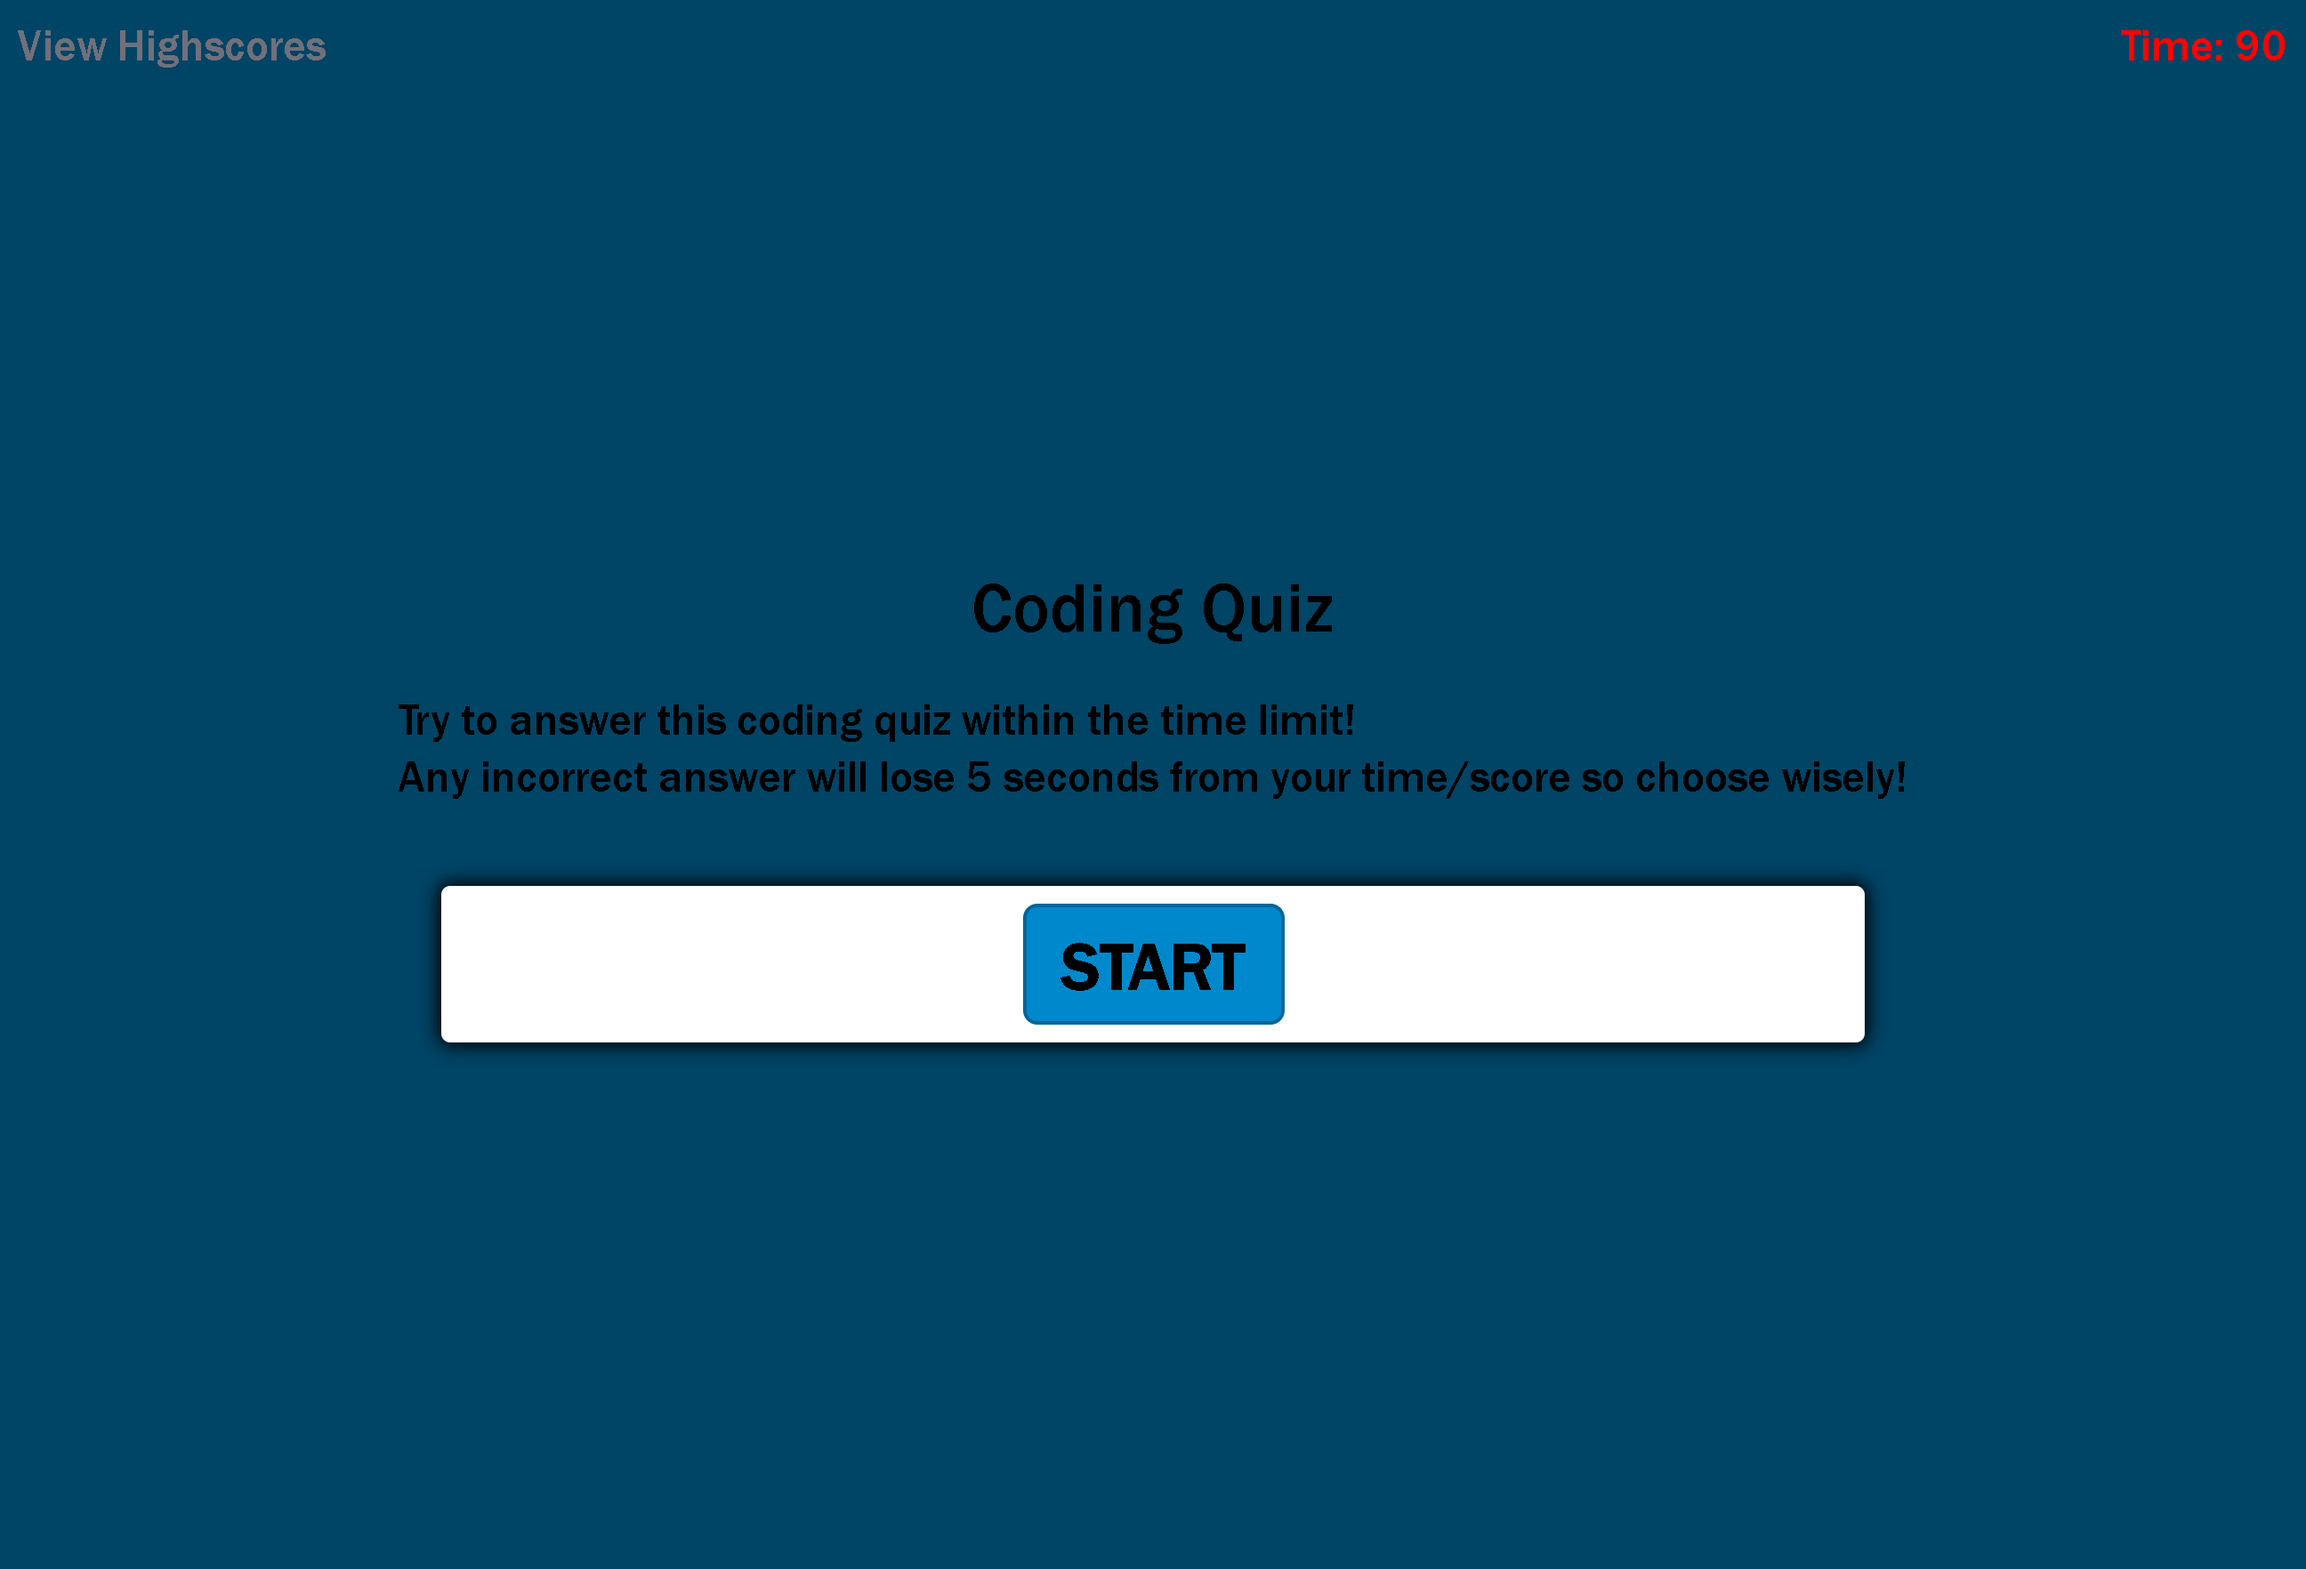
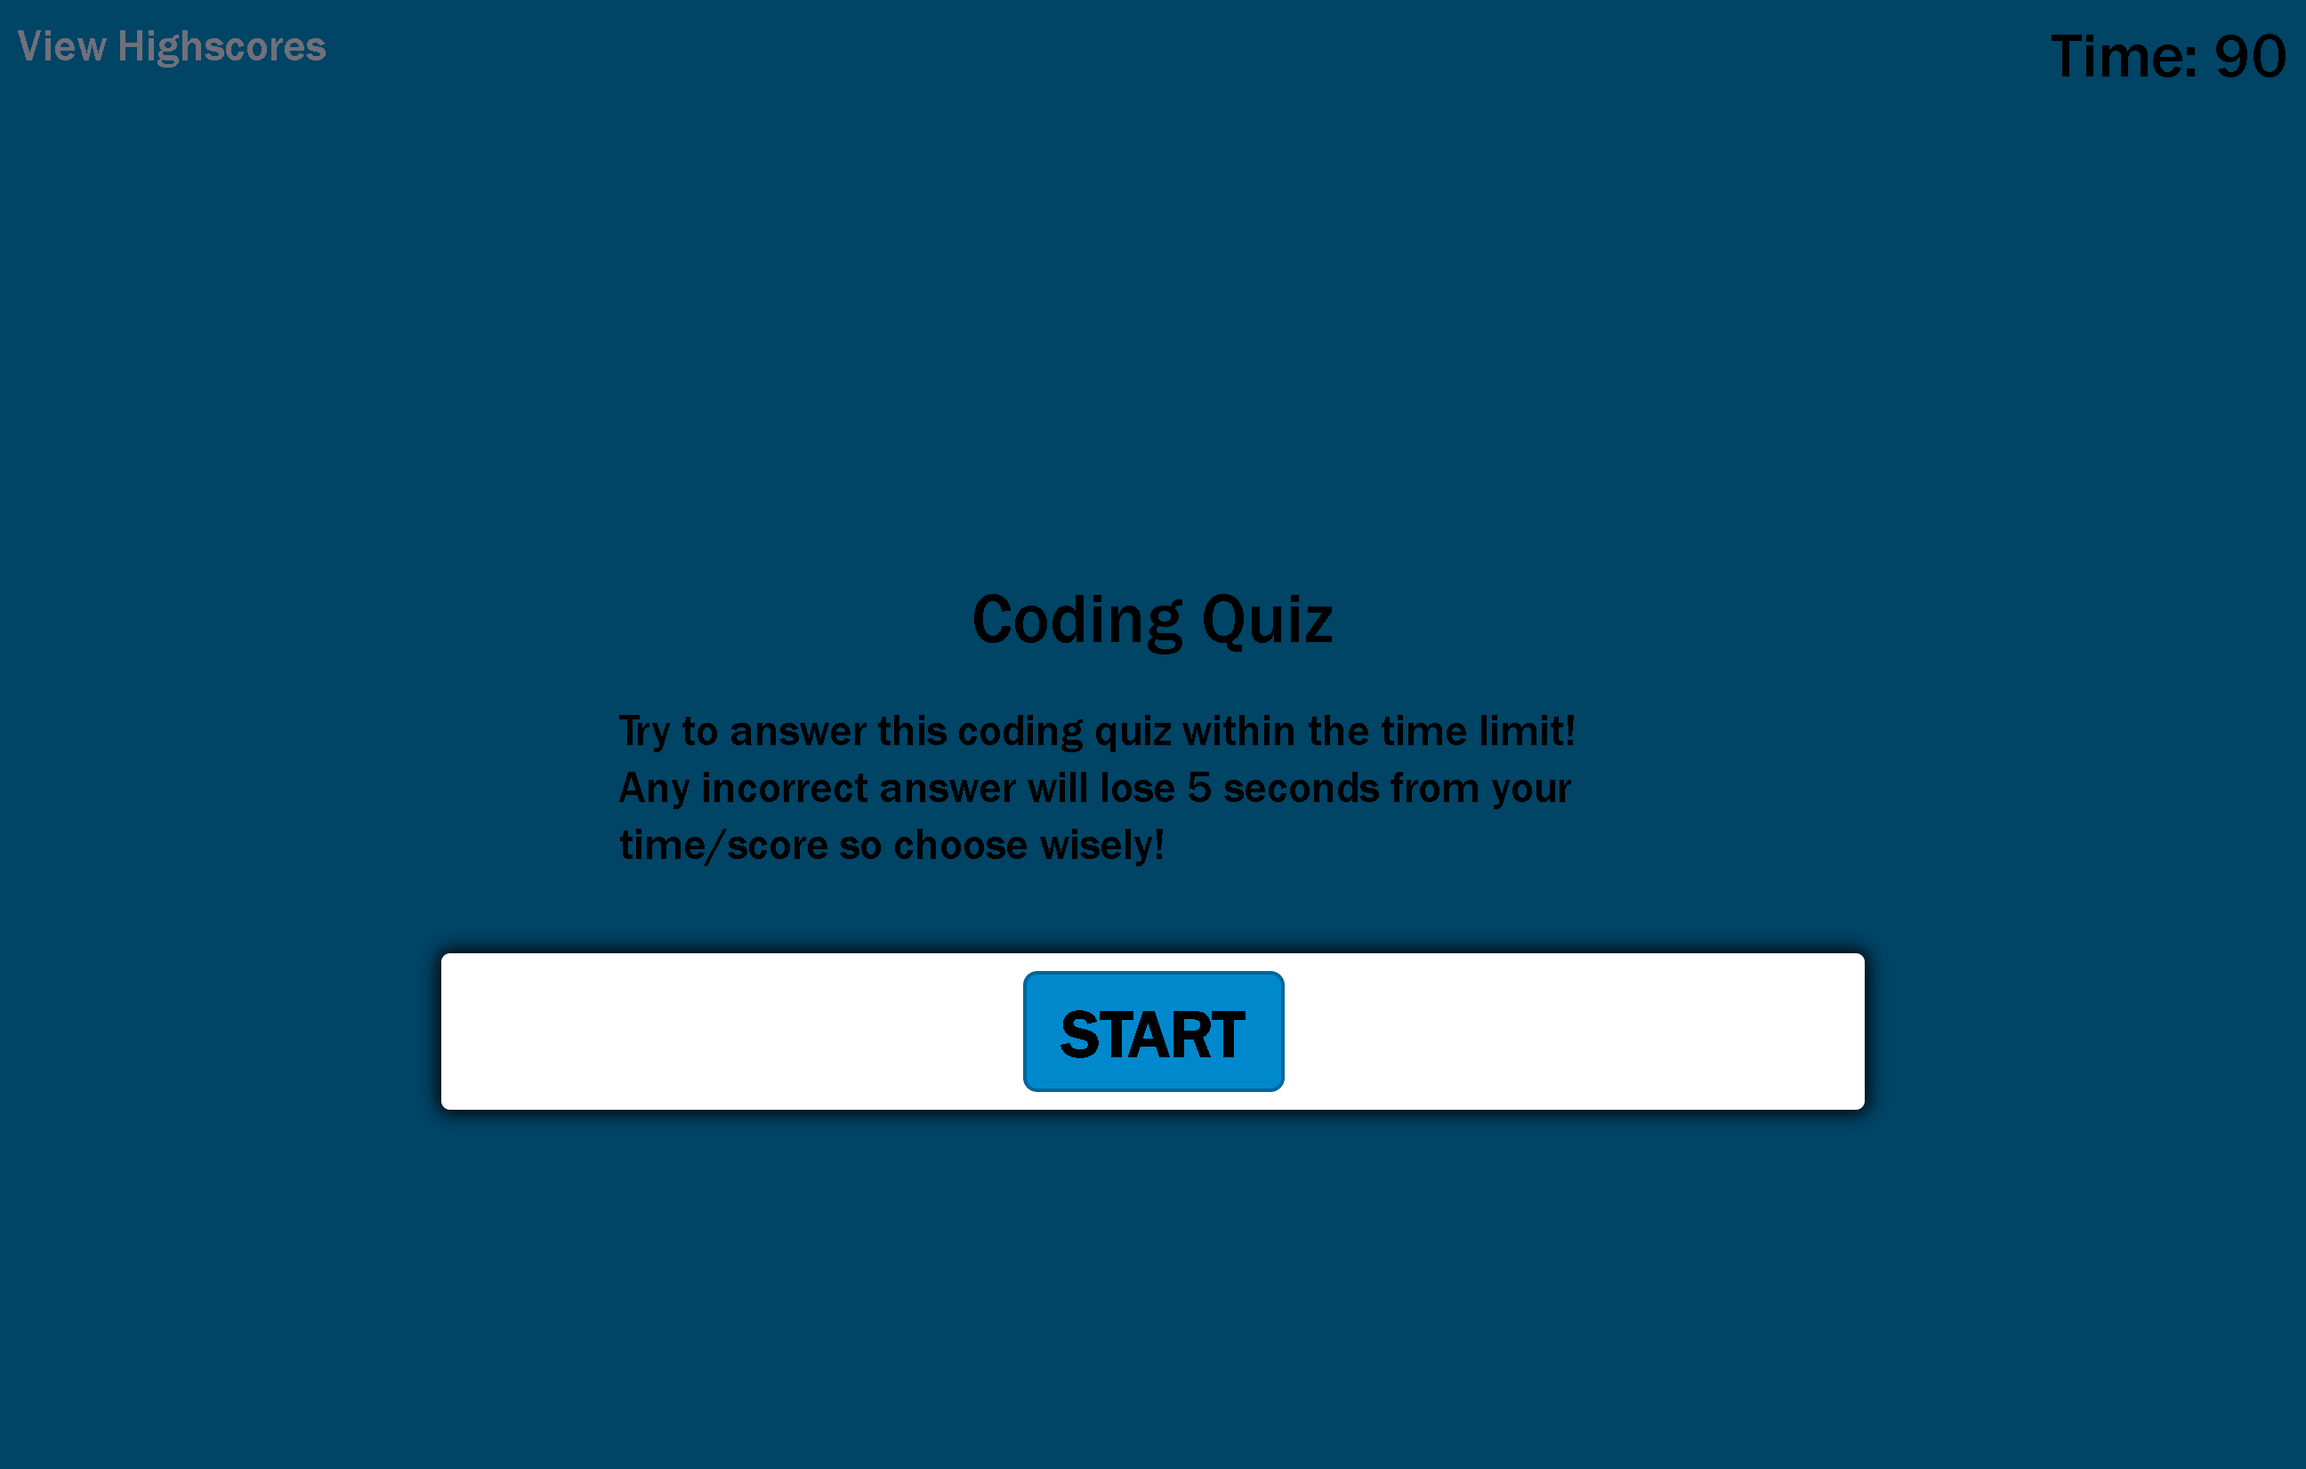
updated screenshot

Changed region(s): [[0.1875, 0.3705, 0.8125, 0.7718], [0.875, 0.0, 1.0, 0.0617], [0.0625, 0.0309, 0.1562, 0.0617]]

diff --git a/.history/index_20220320153353.html b/.history/index_20220320153353.html
@@ -1,0 +1,61 @@
+<!DOCTYPE html>
+<html lang="en">
+<head>
+    <meta charset="UTF-8">
+    <meta http-equiv="X-UA-Compatible" content="IE=edge">
+    <meta name="viewport" content="width=device-width, initial-scale=1.0">
+    <link href="./assets/css/style.css" link rel="stylesheet">
+    <script defer src="./assets/js/script.js"></script>
+    <script defer src="./assets/js/questions.js"></script>
+    <title>Quiz App</title>
+</head>
+
+<body>
+    <header>Coding Quiz
+<br>
+        <p>
+            Try to answer this coding quiz within the time limit!
+<br>
+
+            Any incorrect answer will lose 5 seconds from your time/score so choose wisely! 
+        </p>
+    </header>
+    <div class ="scores"><a href="score.html">View Highscores</a></div>
+
+    <div class="timer">Time: <span id="time">90</span></div>
+
+    <!--Start Quiz Container-->
+    <div class="container">
+
+        <div id="end-screen" class="hide">
+            <h2>All done!</h2>
+            <p>Your final score is <span id="final-score"></span>.</p>
+            <p>
+              Enter initials: <input type="text" id="initials-input-field" max="3" />
+              <button id="submit-btn">Submit</button>
+            </p>
+          </div>
+    
+        <div id="question-container" class="hide">
+                <div id="question">Question</div>
+                <div id="answer-buttons" class="btn-grid">
+                <button class="btn">Answer 1</button>
+                <button class="btn">Answer 2</button>
+                <button class="btn">Answer 3</button>
+                <button class="btn">Answer 4</button>
+            </div>
+        </div>
+
+        <div class="controls counts">
+            <button id="start-btn" class="start-btn btn">START</button>
+        </div>
+
+        <div id="answer-response" class="answer-response"></div>
+    
+
+        
+          
+        
+    </div>
+</body>
+</html>
